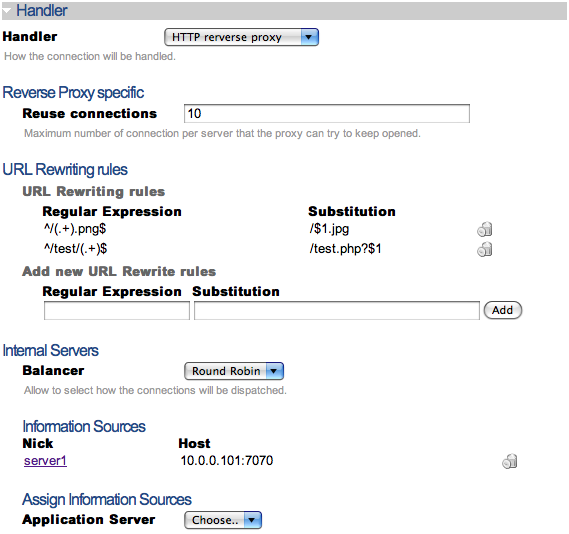
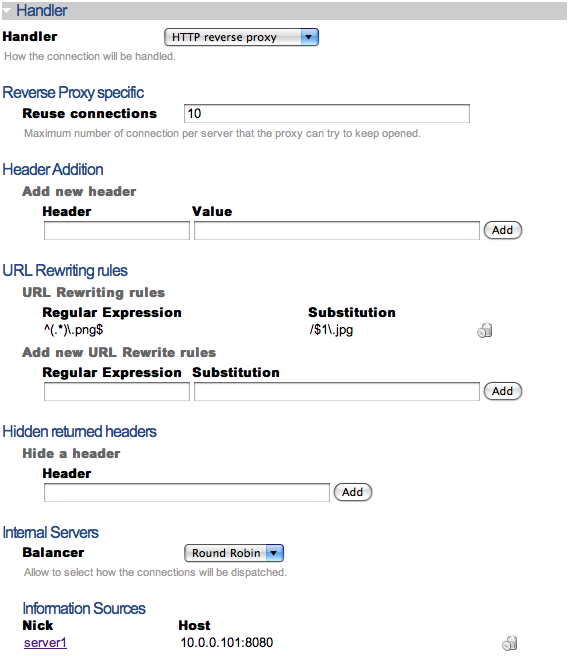
git-svn-id: svn://cherokee-project.com/cherokee/trunk@2390 5dc97367-97f1-0310-9951-d761b3857238

diff --git a/admin/ModuleProxy.py b/admin/ModuleProxy.py
@@ -54,11 +54,10 @@ class ModuleProxy (ModuleHandler):
         pre   = "%s!header_add"%(self._prefix)
         key   = self.InstanceEntry ("tmp!add_header_key", 'text', size=20, req=True)
         val   = self.InstanceEntry ("tmp!add_header_val", 'text', size=40, req=True)
-        add_b = self.InstanceButton ("Add")
 
         table  = Table(3,1)
         table += ('Header', 'Value', '')
-        table += (key, val, add_b)
+        table += (key, val, SUBMIT_ADD)
         tmp += self.Indent(table)
 
         txt += '<h2>Header Addition</h2>'
@@ -95,11 +94,10 @@ class ModuleProxy (ModuleHandler):
         pre   = "%s!rewrite_request"%(self._prefix)
         regex = self.InstanceEntry ("%s!%d!regex"%(pre,next),     'text', size=20, req=True)
         subst = self.InstanceEntry ("%s!%d!substring"%(pre,next), 'text', size=40, req=True)
-        add_b = self.InstanceButton ("Add")
 
         table  = Table(3,1)
         table += ('Regular Expression', 'Substitution', '')
-        table += (regex, subst, add_b)
+        table += (regex, subst, SUBMIT_ADD)
         tmp += self.Indent(table)
 
         txt += '<h2>URL Rewriting rules</h2>'
@@ -134,11 +132,10 @@ class ModuleProxy (ModuleHandler):
 
         pre   = "%s!header_hide"%(self._prefix)
         hdr_e = self.InstanceEntry ("%s!%d"%(pre,next), 'text', size=40)
-        add_b = self.InstanceButton ("Add")
 
         table  = Table(2,1)
         table += ('Header', '')
-        table += (hdr_e, add_b)
+        table += (hdr_e, SUBMIT_ADD)
         tmp += self.Indent(table)
 
         txt += '<h2>Hidden returned headers</h2>'

diff --git a/admin/Form.py b/admin/Form.py
@@ -176,7 +176,7 @@ class FormHelper (WebComponent):
         extra = ""
         for karg in kwargs:
             extra += '%s="%s" '%(karg, kwargs[karg])
-        return '<input type="submit" value="%s" %s/>' % (name, extra)
+        return '<input type="button" value="%s" %s/>' % (name, extra)
 
     def InstanceImage (self, name, alt, **kwargs):
         extra = ""
